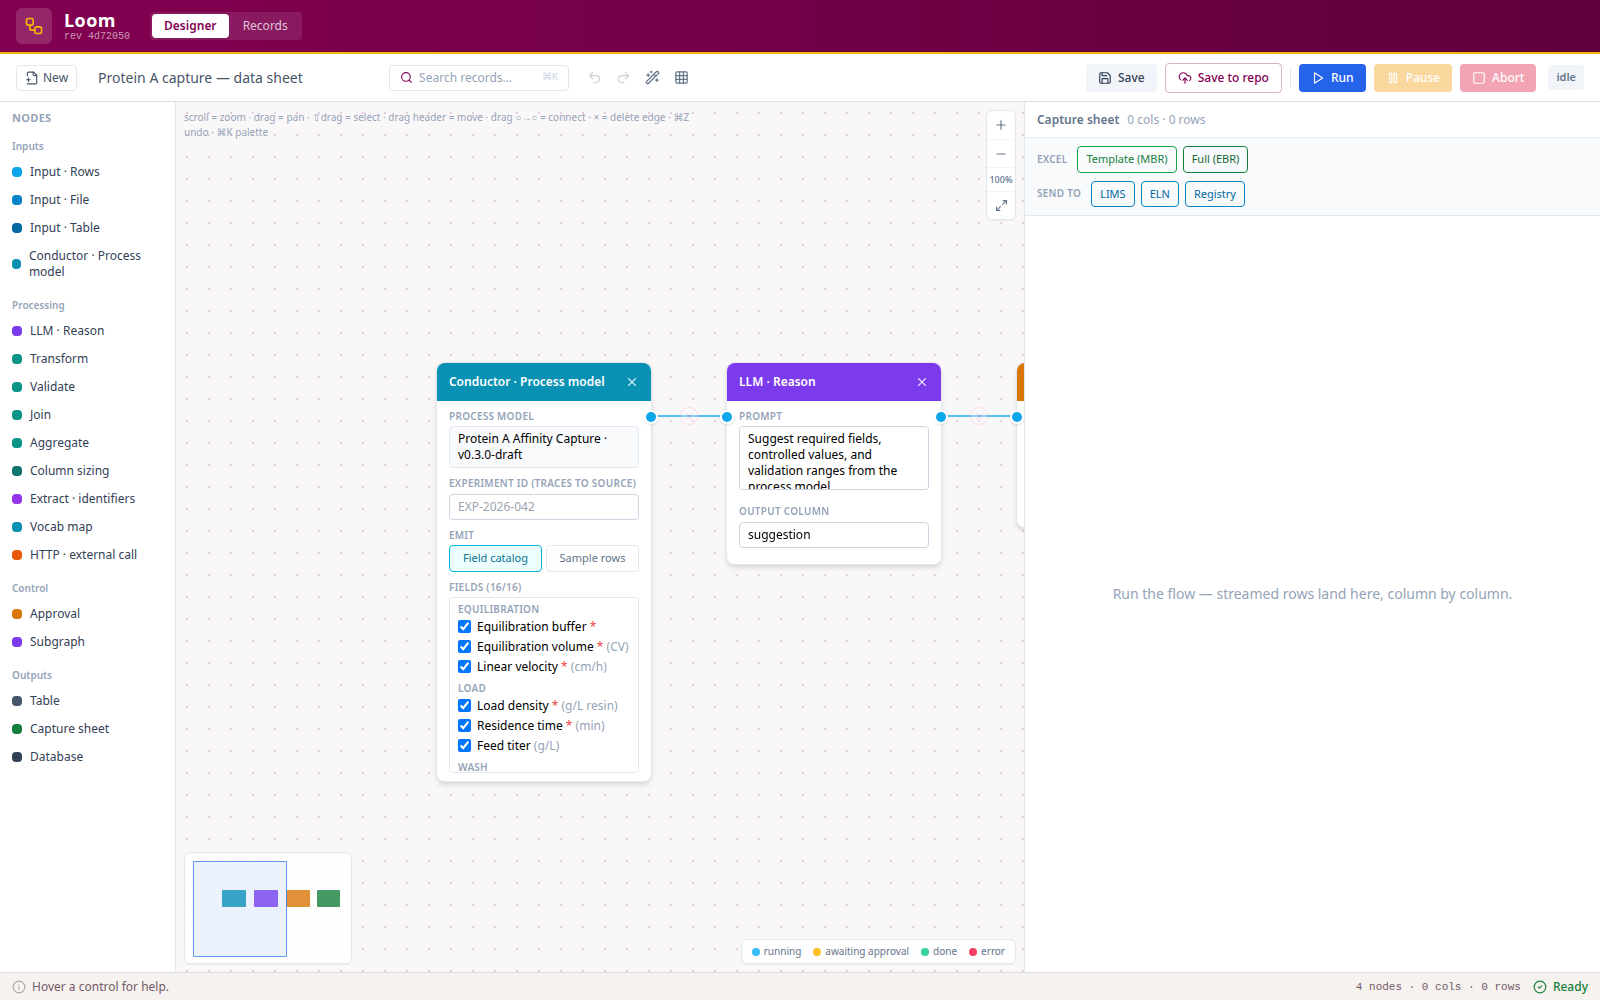
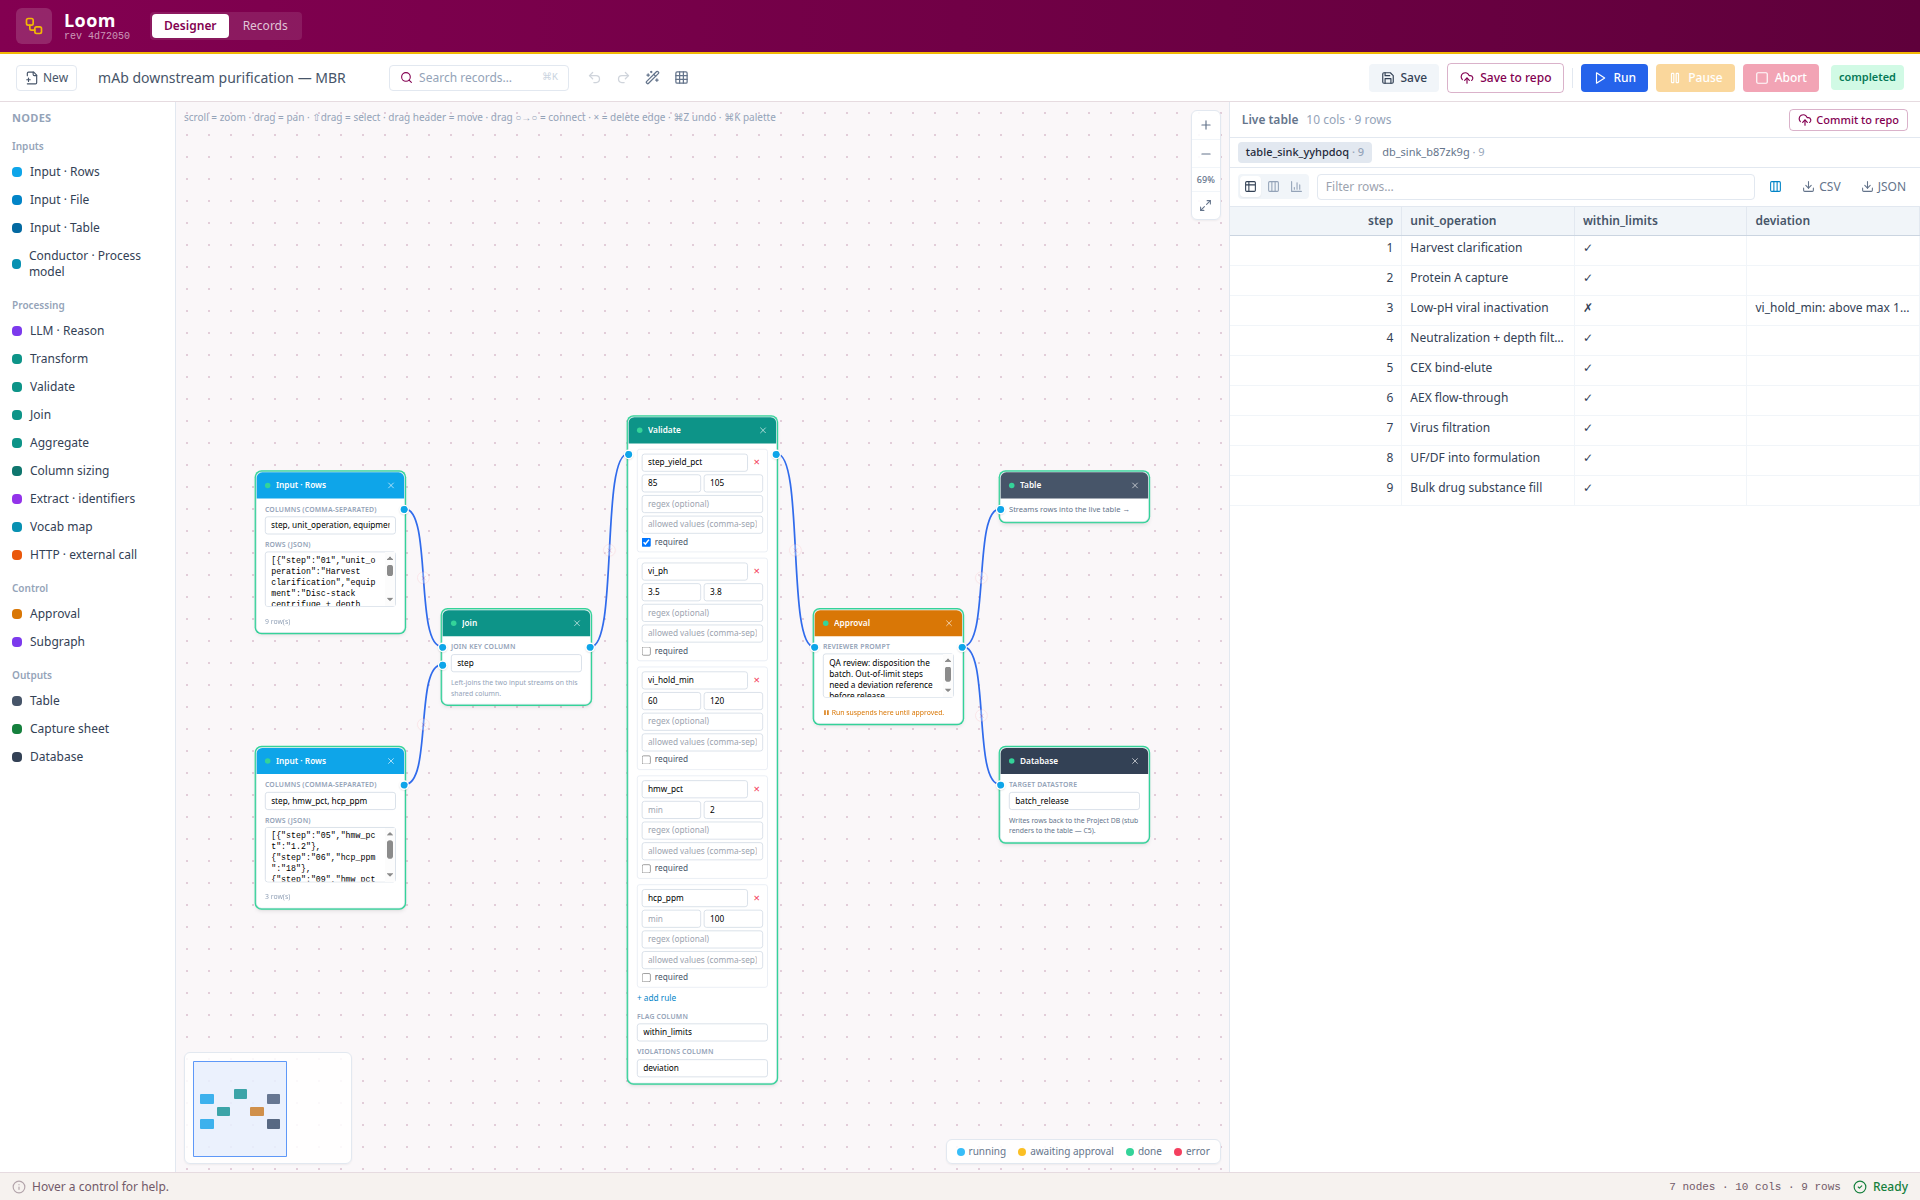
Batch records: say MBR/EBR, and show a real downstream purification run

diff --git a/docs/p/batch-records-as-typed-programs.html b/docs/p/batch-records-as-typed-programs.html
@@ -4,13 +4,13 @@
 <meta charset="utf-8">
 <meta name="viewport" content="width=device-width, initial-scale=1, viewport-fit=cover">
 <title>Batch records as typed programs — Alexander Chernov</title>
-<meta name="description" content="Rust and React, with a no-backend browser build for places that will not host a server. One spine underlies every recipe &amp;mdash; source, pre-process, reason, approve, sink &amp;mdash; and the records live in version control, so review, promotion and rollback are the ordinary git ones.">
+<meta name="description" content="A designer for master batch records (MBR) that executes them as electronic batch records (EBR), in Rust and React, with a no-backend browser build for places that will not host a server. One spine underlies every recipe &amp;mdash; source, pre-process, reason, approve, sink &amp;mdash; and the records live ">
 <link rel="canonical" href="https://portfolio.chernov.ca/p/batch-records-as-typed-programs.html">
 <link rel="icon" type="image/x-icon" href="../favicon.ico">
 <meta property="og:type" content="article">
 <meta property="og:site_name" content="Alexander Chernov — Portfolio">
 <meta property="og:title" content="Batch records as typed programs — Alexander Chernov">
-<meta property="og:description" content="Rust and React, with a no-backend browser build for places that will not host a server. One spine underlies every recipe &amp;mdash; source, pre-process, reason, approve, sink &amp;mdash; and the records live in version control, so review, promotion and rollback are the ordinary git ones.">
+<meta property="og:description" content="A designer for master batch records (MBR) that executes them as electronic batch records (EBR), in Rust and React, with a no-backend browser build for places that will not host a server. One spine underlies every recipe &amp;mdash; source, pre-process, reason, approve, sink &amp;mdash; and the records live ">
 <meta property="og:url" content="https://portfolio.chernov.ca/p/batch-records-as-typed-programs.html">
 <meta property="og:image" content="https://portfolio.chernov.ca/og/batch-records-as-typed-programs.png">
 <meta property="og:image:width" content="1200">
@@ -18,7 +18,7 @@
 <meta property="og:image:alt" content="Batch records as typed programs — Alexander Chernov">
 <meta name="twitter:card" content="summary_large_image">
 <meta name="twitter:title" content="Batch records as typed programs — Alexander Chernov">
-<meta name="twitter:description" content="Rust and React, with a no-backend browser build for places that will not host a server. One spine underlies every recipe &amp;mdash; source, pre-process, reason, approve, sink &amp;mdash; and the records live in version control, so review, promotion and rollback are the ordinary git ones.">
+<meta name="twitter:description" content="A designer for master batch records (MBR) that executes them as electronic batch records (EBR), in Rust and React, with a no-backend browser build for places that will not host a server. One spine underlies every recipe &amp;mdash; source, pre-process, reason, approve, sink &amp;mdash; and the records live ">
 <meta name="twitter:image" content="https://portfolio.chernov.ca/og/batch-records-as-typed-programs.png">
 <script>
 (function(){try{var t=localStorage.getItem('pf-theme');
@@ -185,11 +185,11 @@ footer.bottom p{margin:0 0 .5rem}
 <button class="copy" type="button" data-copy="../p/batch-records-as-typed-programs.html" aria-label="Copy link to Batch records as typed programs" title="Copy link to Batch records as typed programs"><span class="copy-icon" aria-hidden="true">#</span><span class="copy-text">Copy link</span></button>
 </div>
 <p class="lede">Approval is a node, not a convention — typed ports, only same-typed ones connect, and human approval sits inside the grammar.</p>
-<p class="summary">Rust and React, with a no-backend browser build for places that will not host a server. One spine underlies every recipe &mdash; source, pre-process, reason, approve, sink &mdash; and the records live in version control, so review, promotion and rollback are the ordinary git ones.</p>
-<figure><img src="../img/project-batch-records-as-typed-programs.png" alt="The node-graph designer: typed ports on the left, a process-model node feeding an LLM reason node, and Approval as a first-class node in the Control group rather than a workflow convention." loading="lazy" decoding="async">
-<figcaption>The node-graph designer: typed ports on the left, a process-model node feeding an LLM reason node, and Approval as a first-class node in the Control group rather than a workflow convention.</figcaption>
+<p class="summary">A designer for master batch records (MBR) that executes them as electronic batch records (EBR), in Rust and React, with a no-backend browser build for places that will not host a server. One spine underlies every recipe &mdash; source, pre-process, reason, approve, sink &mdash; and the records live in version control, so review, promotion and rollback are the ordinary git ones.</p>
+<figure><img src="../img/project-batch-records-as-typed-programs.png" alt="A platform mAb downstream purification MBR, executed in the browser build: nine unit operations joined to their in-process controls, checked against five MBR limits, then held at a QA approval node. The executed record on the right flags one step &amp;mdash; viral-inactivation hold above its 120-minute limit. Illustrative batch values; limits follow published platform ranges." loading="lazy" decoding="async">
+<figcaption>A platform mAb downstream purification MBR, executed in the browser build: nine unit operations joined to their in-process controls, checked against five MBR limits, then held at a QA approval node. The executed record on the right flags one step &mdash; viral-inactivation hold above its 120-minute limit. Illustrative batch values; limits follow published platform ranges.</figcaption>
 </figure>
-<p>Batch records are authored as documents and executed as programs, and the gap between the two is where validation effort goes. This is a visual builder for master and executed batch records in Rust and React, including a browser-only build with no backend at all, so the authoring surface works where a server cannot be deployed.</p>
+<p>Batch records are authored as documents and executed as programs, and the gap between the two is where validation effort goes. This is a visual builder in Rust and React where the MBR is authored as a graph and every run of it yields the EBR, including a browser-only build with no backend at all, so the authoring surface works where a server cannot be deployed.</p>
 <p>The grammar is a visual pipeline with a type system: boxes are nodes, arrows are typed edges — rows, table, scalar, signal — and only same-typed ports may be wired. Every recipe instantiates one spine: source, pre-process, reason (AI), approve (human), sink. Human approval is a first-class node in the grammar rather than a workflow convention bolted on afterwards — the same conclusion as the pooling gate above, reached independently in a different domain. Records are governed in git: review, environment promotion, rollback.</p>
 <p>Underneath it, twenty years back to pharmaceutical manufacturing execution systems in validated GxP environments.</p>
 <p class="no-url">No public URL — internal system.</p>

diff --git a/docs/index.html b/docs/index.html
@@ -363,11 +363,11 @@ footer.bottom p{margin:0 0 .5rem}
 <button class="copy" type="button" data-copy="p/batch-records-as-typed-programs.html" aria-label="Copy link to Batch records as typed programs" title="Copy link to Batch records as typed programs"><span class="copy-icon" aria-hidden="true">#</span><span class="copy-text">Copy link</span></button>
 </div>
 <p class="lede">Approval is a node, not a convention — typed ports, only same-typed ones connect, and human approval sits inside the grammar.</p>
-<p class="summary">Rust and React, with a no-backend browser build for places that will not host a server. One spine underlies every recipe &mdash; source, pre-process, reason, approve, sink &mdash; and the records live in version control, so review, promotion and rollback are the ordinary git ones.</p>
-<figure><img src="img/project-batch-records-as-typed-programs.png" alt="The node-graph designer: typed ports on the left, a process-model node feeding an LLM reason node, and Approval as a first-class node in the Control group rather than a workflow convention." loading="lazy" decoding="async">
-<figcaption>The node-graph designer: typed ports on the left, a process-model node feeding an LLM reason node, and Approval as a first-class node in the Control group rather than a workflow convention.</figcaption>
+<p class="summary">A designer for master batch records (MBR) that executes them as electronic batch records (EBR), in Rust and React, with a no-backend browser build for places that will not host a server. One spine underlies every recipe &mdash; source, pre-process, reason, approve, sink &mdash; and the records live in version control, so review, promotion and rollback are the ordinary git ones.</p>
+<figure><img src="img/project-batch-records-as-typed-programs.png" alt="A platform mAb downstream purification MBR, executed in the browser build: nine unit operations joined to their in-process controls, checked against five MBR limits, then held at a QA approval node. The executed record on the right flags one step &amp;mdash; viral-inactivation hold above its 120-minute limit. Illustrative batch values; limits follow published platform ranges." loading="lazy" decoding="async">
+<figcaption>A platform mAb downstream purification MBR, executed in the browser build: nine unit operations joined to their in-process controls, checked against five MBR limits, then held at a QA approval node. The executed record on the right flags one step &mdash; viral-inactivation hold above its 120-minute limit. Illustrative batch values; limits follow published platform ranges.</figcaption>
 </figure>
-<p>Batch records are authored as documents and executed as programs, and the gap between the two is where validation effort goes. This is a visual builder for master and executed batch records in Rust and React, including a browser-only build with no backend at all, so the authoring surface works where a server cannot be deployed.</p>
+<p>Batch records are authored as documents and executed as programs, and the gap between the two is where validation effort goes. This is a visual builder in Rust and React where the MBR is authored as a graph and every run of it yields the EBR, including a browser-only build with no backend at all, so the authoring surface works where a server cannot be deployed.</p>
 <p>The grammar is a visual pipeline with a type system: boxes are nodes, arrows are typed edges — rows, table, scalar, signal — and only same-typed ports may be wired. Every recipe instantiates one spine: source, pre-process, reason (AI), approve (human), sink. Human approval is a first-class node in the grammar rather than a workflow convention bolted on afterwards — the same conclusion as the pooling gate above, reached independently in a different domain. Records are governed in git: review, environment promotion, rollback.</p>
 <p>Underneath it, twenty years back to pharmaceutical manufacturing execution systems in validated GxP environments.</p>
 <p class="no-url">No public URL — internal system.</p>
